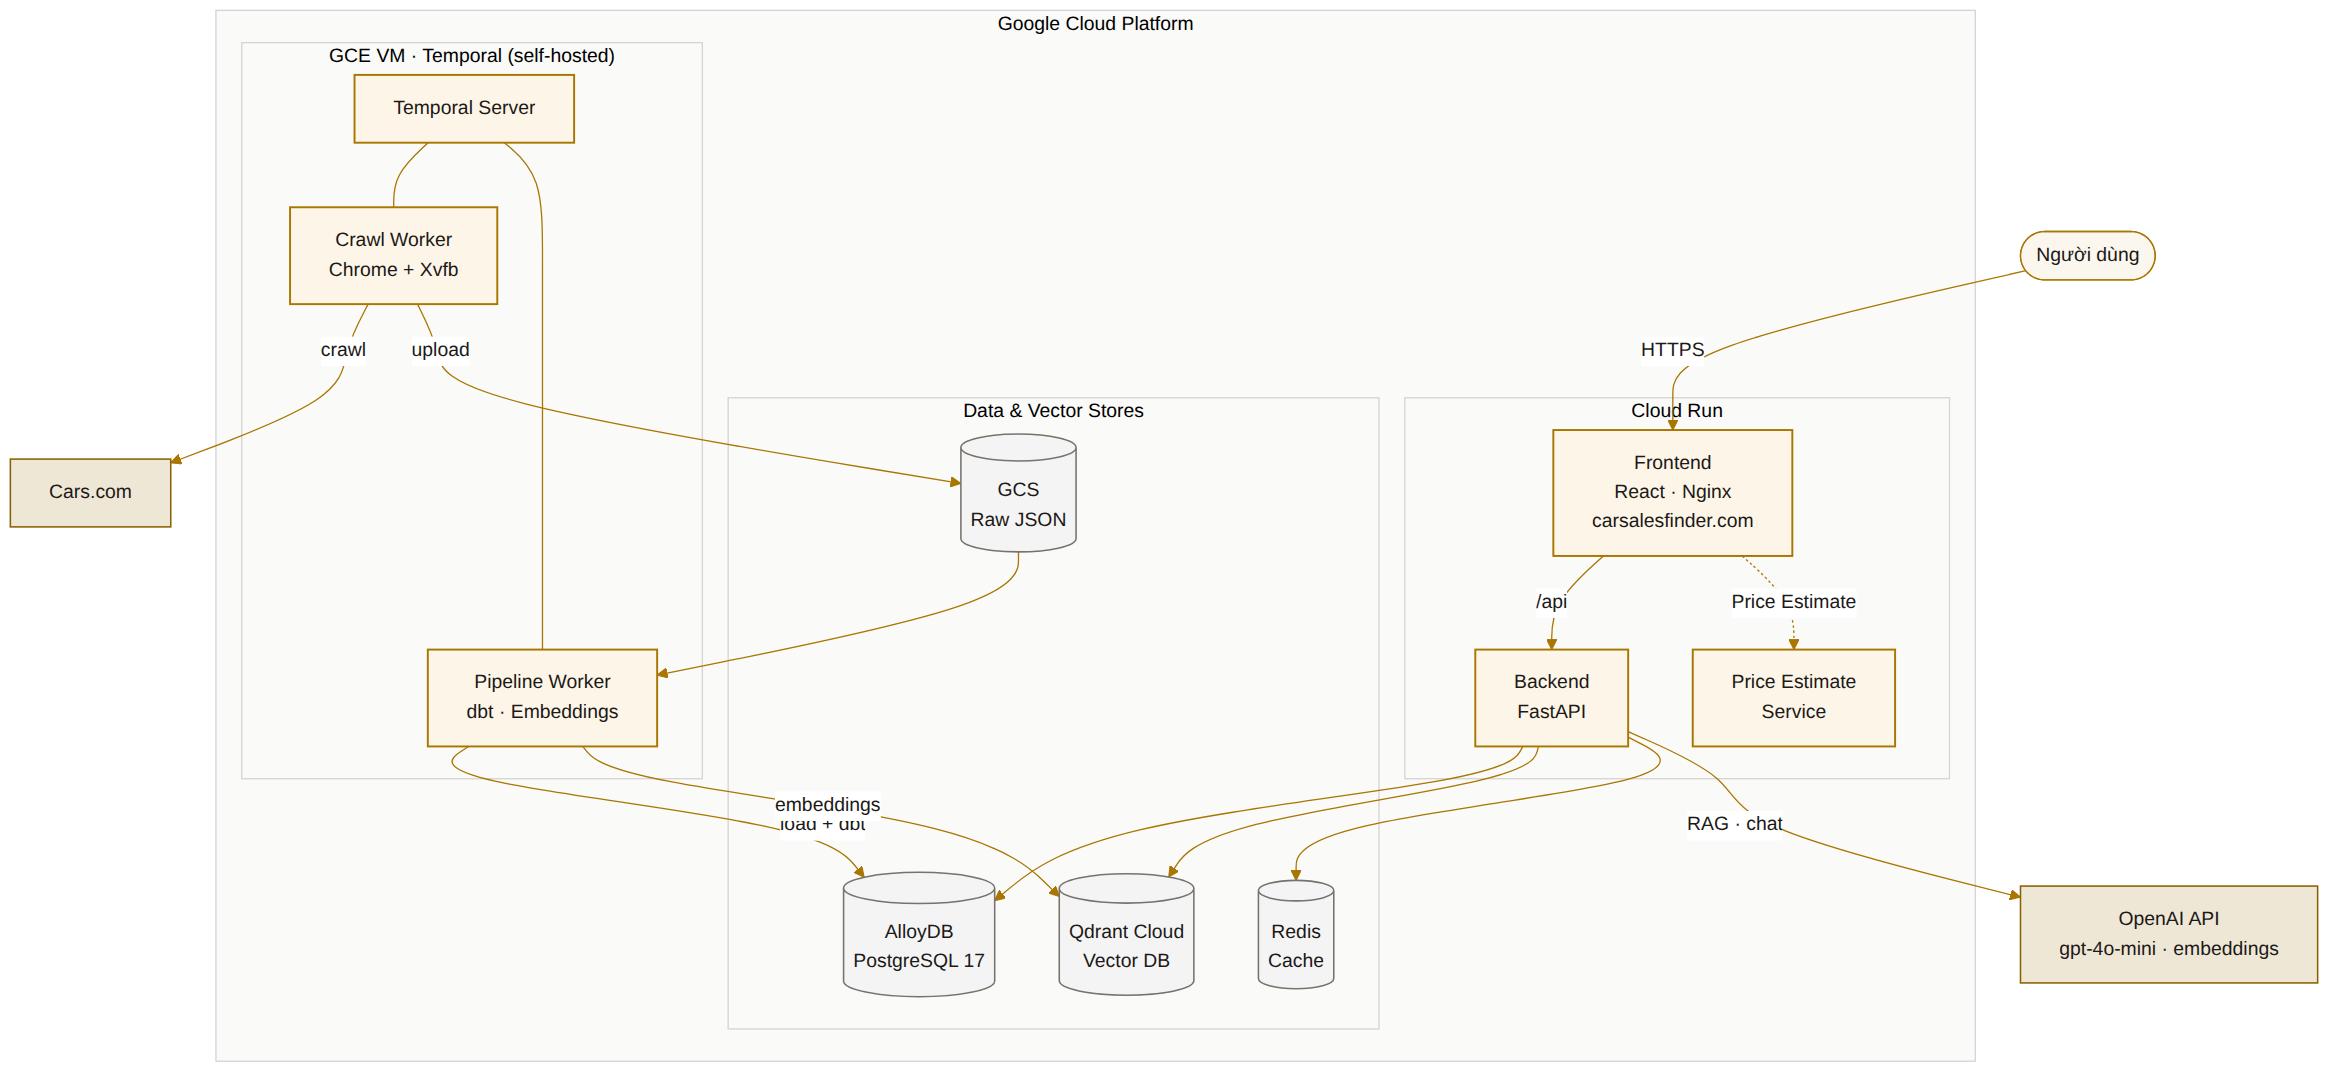
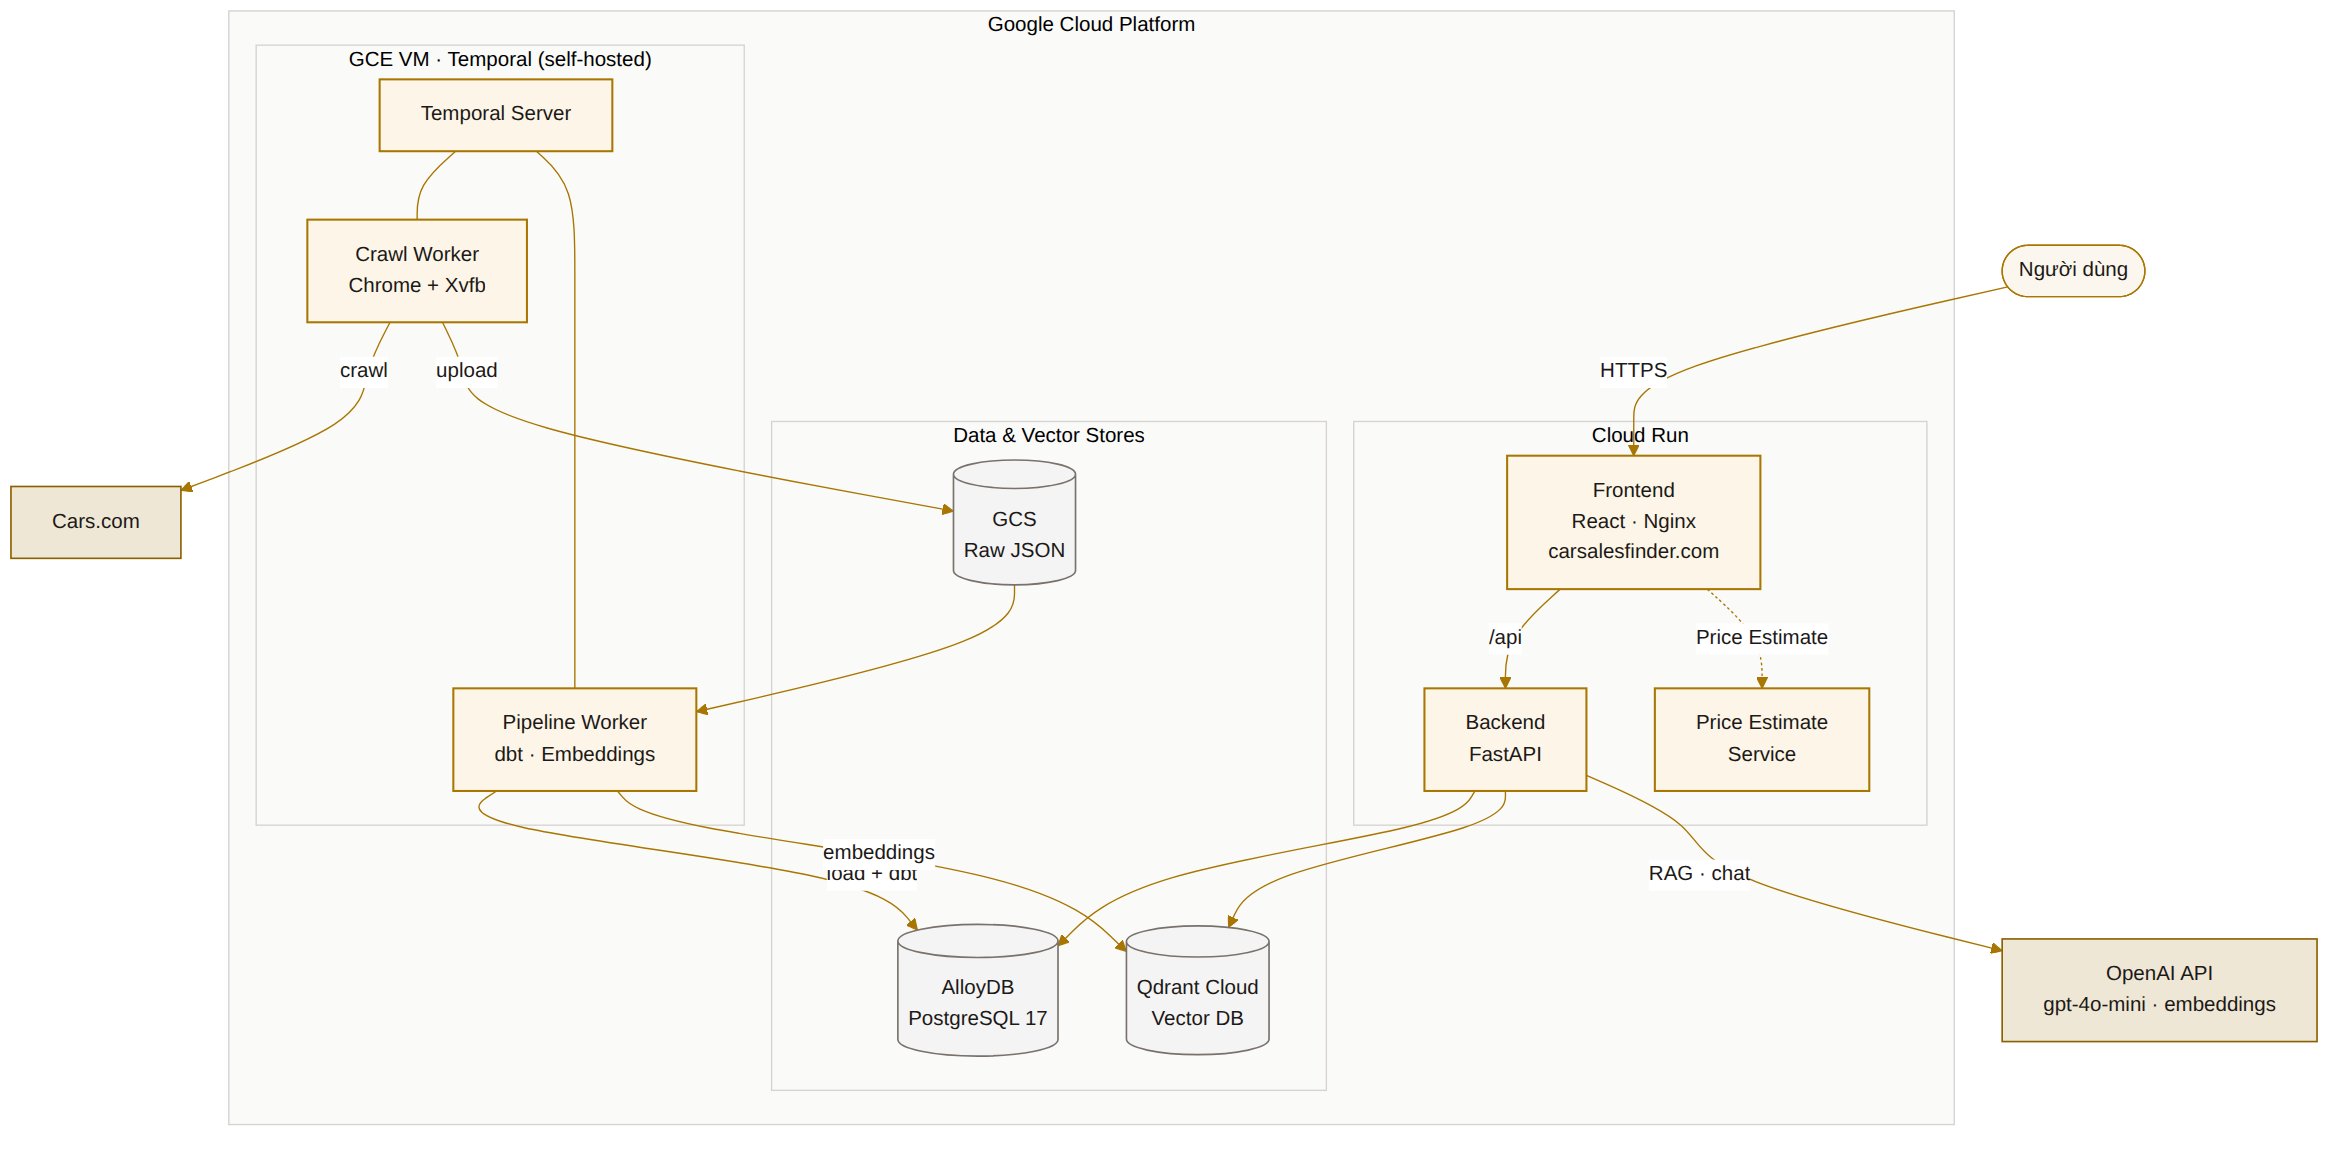
docs(report): remove Redis + EDA, apply Overleaf template formatting
Redis (not actually used — no client in code, no env on Cloud Run; only
functools.lru_cache):
- report: drop all Redis mentions; rewrite caching section as in-process cache
- diagrams: remove Redis node from overview + api_architecture (re-rendered)

EDA: chapter was already commented out — delete preprocess.tex + its 3 EDA
images (OVERVIEW/NEW/USED VEHICLES) + the orphan rag_model.png.

Formatting (from the user's Overleaf template): fancyhdr header with a bold
rule + section name (left) + bold page number (right); 12pt; plain style on
chapter openers; coloured hyperlinks (black links, blue URLs); chapter/section
marks.

diff --git a/car-recsys-system/report_tot_nghiep/main.tex b/car-recsys-system/report_tot_nghiep/main.tex
@@ -210,9 +210,6 @@
 % \chapter{QUÁ TRÌNH THU THẬP VÀ XỬ LÝ DỮ LIỆU}
 % \input{chapters/ThuThapDuLieu}
 
-% \chapter{EDA}
-% \input{chapters/preprocess}
-
 % \chapter{Backend và hệ thống đề xuất}
 % \input{chapters/backend}
 
@@ -224,8 +221,8 @@
 
 
 %% PREAMBLE
-% --- THAY ĐỔI: Đổi twoside -> oneside để tránh sinh trang trắng ngẫu nhiên
-\documentclass[13pt,a4paper,oneside]{extreport}
+% --- Font 12pt theo template; oneside để nộp PDF / in 1 mặt (không trang trắng).
+\documentclass[12pt,a4paper,oneside]{extreport}
 
 %% TODO: Add your useful packages here
 \usepackage[utf8]{inputenc}
@@ -258,16 +255,49 @@
 \titlespacing*{\subsubsection}{3.0em}{1.0ex}{0.6ex}% "4.1.1"
 
 
-%% Main Format 
+%% Main Format
 \usepackage{setspace}
 \onehalfspacing
 \usepackage[
   a4paper,
   left=2.5cm,
   right=2cm,
-  top=2cm,
+  top=2.5cm,
   bottom=2cm
 ]{geometry}
+
+%% ================= HÌNH THỨC THEO TEMPLATE OVERLEAF =================
+%% Header/footer: số trang in đậm ở góc ngoài, tên chương/section ở giữa,
+%% đường kẻ ngang đậm 1pt dưới header.
+\pagestyle{fancy}
+\fancyhf{}                                       % xoá header/footer mặc định
+% oneside: tên chương/section ở trái, số trang (đậm) ở phải — như template.
+\fancyhead[L]{\bfseries\nouppercase{\rightmark}} % "1.1 Tên section"
+\fancyhead[R]{\bfseries\thepage}                 % số trang, in đậm
+\setlength{\headheight}{15pt}
+\renewcommand{\headrulewidth}{1.0pt}             % đường kẻ đậm dưới header
+\renewcommand{\footrulewidth}{0pt}
+
+%% Trang mở đầu chương (plain): chỉ số trang canh giữa dưới, không kẻ header.
+\fancypagestyle{plain}{%
+  \fancyhf{}%
+  \fancyfoot[C]{\thepage}%
+  \renewcommand{\headrulewidth}{0pt}%
+}
+
+%% Định dạng nội dung mark cho header (số + tên chương/section).
+\renewcommand{\chaptermark}[1]{\markboth{\thechapter.\ #1}{}}
+\renewcommand{\sectionmark}[1]{\markright{\thesection.\ #1}}
+
+%% Hyperlink có màu (link nội bộ đen, URL xanh) như template.
+\usepackage{hyperref}
+\hypersetup{%
+  colorlinks=true,
+  linkcolor=black,
+  citecolor=black,
+  urlcolor=blue,
+}
+%% ===================================================================
 
 %% TODO: Use \cmark for tick and \xmark for x
 \usepackage{pifont}
@@ -445,10 +475,6 @@
 \chapter{QUÁ TRÌNH THU THẬP VÀ XỬ LÝ DỮ LIỆU}
 \input{chapters/ThuThapDuLieu}
 
-
-
-%%\chapter{EDA}
-%%\input{chapters/preprocess}
 
 \chapter{KIẾN TRÚC HỆ THỐNG, BACKEND VÀ HỆ THỐNG ĐỀ XUẤT}
 \input{chapters/backend}

diff --git a/car-recsys-system/report_tot_nghiep/chapters/backend.tex b/car-recsys-system/report_tot_nghiep/chapters/backend.tex
@@ -4,7 +4,7 @@ Hệ thống backend đóng vai trò là trung tâm xử lý chính của ứng 
 
 Backend được xây dựng dựa trên framework \textbf{FastAPI} với ngôn ngữ \textbf{Python}, cho phép phát triển các API theo kiến trúc RESTful với hiệu năng cao, khả năng mở rộng tốt và hỗ trợ tài liệu API tự động thông qua OpenAPI/Swagger. FastAPI được lựa chọn nhờ khả năng xử lý bất đồng bộ (asynchronous), phù hợp với các hệ thống cần phục vụ nhiều request đồng thời.
 
-Hệ thống sử dụng \textbf{PostgreSQL} làm cơ sở dữ liệu quan hệ để lưu trữ các dữ liệu có cấu trúc như thông tin xe, người bán, giao dịch và metadata liên quan. PostgreSQL đảm bảo tính toàn vẹn dữ liệu, hỗ trợ các ràng buộc quan hệ và khả năng truy vấn phức tạp. Bên cạnh đó, \textbf{Qdrant} được sử dụng như một vector database, phục vụ cho bài toán tìm kiếm và gợi ý dựa trên vector embedding, cho phép hệ thống thực hiện các phép so sánh tương đồng (similarity search) hiệu quả trên không gian nhiều chiều. Để tối ưu hiệu năng và giảm tải cho backend cũng như database, \textbf{Redis} được sử dụng làm hệ thống cache, lưu trữ các kết quả truy vấn thường xuyên hoặc dữ liệu tạm thời.
+Hệ thống sử dụng \textbf{PostgreSQL} làm cơ sở dữ liệu quan hệ để lưu trữ các dữ liệu có cấu trúc như thông tin xe, người bán, giao dịch và metadata liên quan. PostgreSQL đảm bảo tính toàn vẹn dữ liệu, hỗ trợ các ràng buộc quan hệ và khả năng truy vấn phức tạp. Bên cạnh đó, \textbf{Qdrant} được sử dụng như một vector database, phục vụ cho bài toán tìm kiếm và gợi ý dựa trên vector embedding, cho phép hệ thống thực hiện các phép so sánh tương đồng (similarity search) hiệu quả trên không gian nhiều chiều.
 
 \begin{figure}[!htbp]
     \centering
@@ -13,7 +13,7 @@ Hệ thống sử dụng \textbf{PostgreSQL} làm cơ sở dữ liệu quan hệ
     \label{fig:backend-diagram}
 \end{figure}
 
-Hệ thống được thiết kế theo mô hình \textbf{microservices}, trong đó mỗi thành phần đảm nhiệm một vai trò riêng biệt và có thể triển khai, mở rộng độc lập. Frontend Service chạy trên cổng \textbf{3000}, chịu trách nhiệm hiển thị giao diện và tương tác trực tiếp với người dùng. Backend API chạy trên cổng \textbf{8000}, cung cấp các endpoint để xử lý nghiệp vụ và điều phối dữ liệu giữa các dịch vụ. PostgreSQL database hoạt động trên cổng \textbf{5432}, Qdrant vector database trên cổng \textbf{6333}, và Redis cache trên cổng \textbf{6379}.
+Hệ thống được thiết kế theo mô hình \textbf{microservices}, trong đó mỗi thành phần đảm nhiệm một vai trò riêng biệt và có thể triển khai, mở rộng độc lập. Frontend Service chạy trên cổng \textbf{3000}, chịu trách nhiệm hiển thị giao diện và tương tác trực tiếp với người dùng. Backend API chạy trên cổng \textbf{8000}, cung cấp các endpoint để xử lý nghiệp vụ và điều phối dữ liệu giữa các dịch vụ. PostgreSQL database hoạt động trên cổng \textbf{5432} và Qdrant vector database trên cổng \textbf{6333}.
 
 Toàn bộ các service được đóng gói và triển khai bằng \textbf{Docker}, giao tiếp với nhau thông qua \textbf{Docker bridge network}. Cách tiếp cận này giúp hệ thống dễ dàng triển khai trên nhiều môi trường khác nhau, đảm bảo tính nhất quán giữa môi trường phát triển và môi trường triển khai, đồng thời tạo tiền đề thuận lợi cho việc mở rộng hoặc tích hợp thêm các dịch vụ mới trong tương lai.
 
@@ -40,7 +40,7 @@ Như minh họa trong Hình \ref{fig:system-architecture}, hệ thống được
 
 Các service trong backend có thể giao tiếp với nhau thông qua các lời gọi nội bộ và cùng truy cập các nguồn dữ liệu phía dưới, giúp hệ thống dễ dàng mở rộng hoặc bổ sung thêm service mới trong tương lai.
 
-\textbf{Data Layer} chịu trách nhiệm lưu trữ và truy xuất dữ liệu, bao gồm nhiều thành phần chuyên biệt cho từng loại dữ liệu. PostgreSQL được sử dụng làm cơ sở dữ liệu quan hệ để lưu trữ dữ liệu có cấu trúc như thông tin xe, người dùng và người bán. Redis được sử dụng làm hệ thống cache, giúp lưu trữ dữ liệu tạm thời và kết quả truy vấn thường xuyên nhằm giảm độ trễ và tăng hiệu năng. Qdrant đóng vai trò là vector database, phục vụ cho các bài toán tìm kiếm và gợi ý dựa trên độ tương đồng của vector embedding.
+\textbf{Data Layer} chịu trách nhiệm lưu trữ và truy xuất dữ liệu, bao gồm nhiều thành phần chuyên biệt cho từng loại dữ liệu. PostgreSQL (AlloyDB trên môi trường sản xuất) được sử dụng làm cơ sở dữ liệu quan hệ để lưu trữ dữ liệu có cấu trúc như thông tin xe, người dùng và người bán. Qdrant đóng vai trò là vector database, phục vụ cho các bài toán tìm kiếm và gợi ý dựa trên độ tương đồng của vector embedding.
 
 Ngoài ra, hệ thống còn tích hợp với các dịch vụ bên ngoài như OpenAI API để hỗ trợ chatbot và tạo embedding phục vụ cho Recommendation Engine. Việc tách biệt các dịch vụ bên ngoài giúp hệ thống linh hoạt trong việc thay thế hoặc mở rộng các nhà cung cấp khác trong tương lai.
 
@@ -117,18 +117,20 @@ Khi người dùng đăng nhập, hệ thống query user từ database theo use
 
 Với mỗi request cần xác thực, frontend gửi token trong header Authorization. Backend extract token, decode và verify signature với SECRET\_KEY, kiểm tra expiration time, sau đó query user từ database và gắn vào request context.
 
-\section{Caching và Tối ưu hiệu năng}
+\section{Tối ưu hiệu năng}
 
-Để đảm bảo hiệu năng và khả năng mở rộng, hệ thống áp dụng cơ chế caching nhiều tầng với \textbf{Redis} làm trung tâm, kết hợp tối ưu truy vấn ở tầng cơ sở dữ liệu.
+Để đảm bảo hiệu năng, hệ thống kết hợp cache trong tiến trình (in-process) cho các tài nguyên tĩnh và tối ưu truy vấn ở tầng cơ sở dữ liệu.
 
-\subsection{Caching bằng Redis}
+\subsection{Cache trong tiến trình}
 
-Hệ thống sử dụng Redis với TTL mặc định là \textbf{1 giờ} (\texttt{CACHE\_TTL = 3600}), bao gồm các lớp cache sau:
+Các tài nguyên có chi phí khởi tạo cao nhưng ít thay đổi được nạp một lần và lưu trong bộ nhớ tiến trình bằng \texttt{functools.lru\_cache}, thay vì tính lại ở mỗi request:
 
 \begin{itemize}
-    \item \textit{API Response Cache}: Lưu trữ kết quả của các truy vấn tìm kiếm phổ biến — các request có cùng tập tham số lọc sẽ được phục vụ trực tiếp từ cache, giảm tải cho PostgreSQL và Qdrant.
-    \item \textit{Recommendation Cache}: Lưu kết quả gợi ý xe cho từng người dùng. Cache được chủ động \textit{invalidate} khi hệ thống ghi nhận tương tác mới (click, save, contact, v.v.), đảm bảo kết quả gợi ý phản ánh hành vi mới nhất.
+    \item \textit{Cấu hình hệ thống gợi ý}: file \texttt{reco\_config.yaml} (trọng số, ngưỡng) được phân tích một lần và cache trong suốt vòng đời tiến trình.
+    \item \textit{Tài nguyên chatbot}: LLM client và vector store được khởi tạo một lần khi backend khởi động và tái sử dụng cho mọi lượt hội thoại.
 \end{itemize}
+
+Cách tiếp cận này phù hợp với cấu hình \texttt{max-instances = 1} của Cloud Run, giúp giảm độ trễ mà không cần một dịch vụ cache ngoài.
 
 \subsection{Tối ưu truy vấn Database}
 

diff --git a/car-recsys-system/report_tot_nghiep/chapters/TongQuan.tex b/car-recsys-system/report_tot_nghiep/chapters/TongQuan.tex
@@ -33,7 +33,7 @@ Hệ thống được xây dựng trên nền tảng đám mây Google Cloud Pla
 \begin{itemize}
     \item \textbf{Frontend:} Ứng dụng web đơn trang (SPA) xây dựng bằng React + TypeScript + Tailwind CSS, triển khai trên Google Cloud Run dưới dạng container nginx.
     \item \textbf{Backend:} API server xây dựng bằng FastAPI (Python), triển khai trên Google Cloud Run, cung cấp các endpoint cho tìm kiếm, đề xuất, chat, xác thực và quản lý tương tác người dùng.
-    \item \textbf{Database:} AlloyDB (PostgreSQL 17) lưu trữ dữ liệu theo kiến trúc medallion (bronze/silver/gold). Qdrant Cloud làm vector database cho tìm kiếm ngữ nghĩa. Redis làm bộ nhớ đệm.
+    \item \textbf{Database:} AlloyDB (PostgreSQL 17) lưu trữ dữ liệu theo kiến trúc medallion (bronze/silver/gold). Qdrant Cloud làm vector database cho tìm kiếm ngữ nghĩa.
     \item \textbf{Data Pipeline:} Temporal server tự triển khai (self-hosted) trên GCE VM điều phối toàn bộ luồng thu thập và xử lý dữ liệu tự động hàng tuần.
     \item \textbf{Chuyển đổi dữ liệu:} dbt (data build tool) thực hiện chuyển đổi dữ liệu từ bronze thô sang silver (chuẩn hóa theo mô hình chiều) và gold (bảng phục vụ ứng dụng).
 \end{itemize}